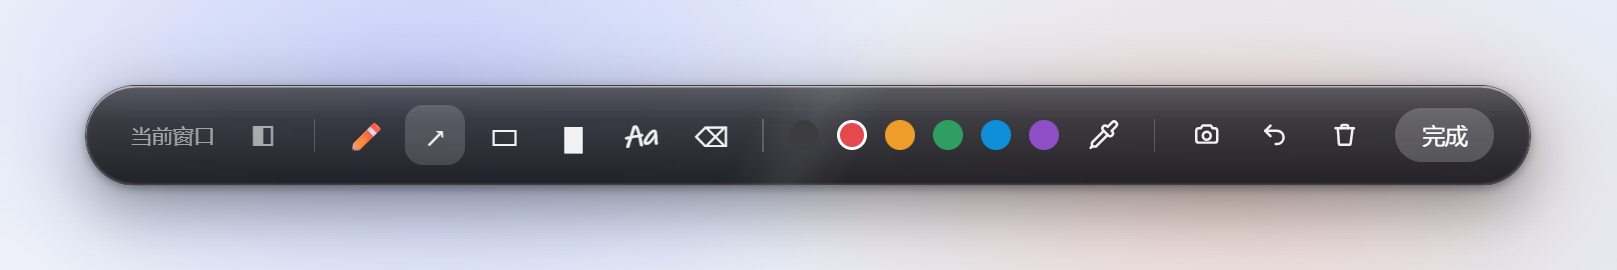
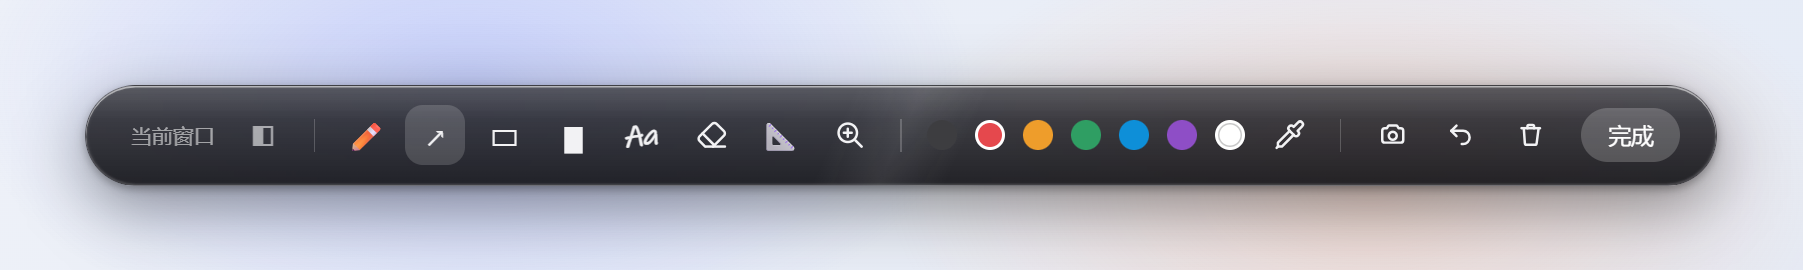
docs: README 补齐新功能 + 重生成配图
- README 中英同步:能做什么表加「测量标尺 / 放大镜」、截图行补「右键=框选区域截图」、
  手绘工具改「七色(含白色)」;上手表加「数字键切工具 / 量尺寸 / 放大局部 / 框选截图」;
  「会不会拖慢电脑」改成自适应节奏(60fps 跟手 / 静止回落 / UIA ~30fps)的准确描述
- gen-screenshots mock:工具条加标尺 📐 / 放大镜、橡皮换 SVG 造型、颜色加白点;
  重生成 docs/hero.png、docs/toolbar.png

Changed region(s): [[0.0309, 0.3259, 0.9586, 0.7111], [0.0618, 0.2963, 0.0928, 0.3556]]

diff --git a/docs/gen-screenshots.js b/docs/gen-screenshots.js
@@ -53,9 +53,9 @@ function heroHTML(withToolbar) {
   const toolbar = withToolbar ? `
   <div class="wa-toolbar">
     <span class="app">chrome</span><button style="opacity:.62">◧</button><span class="sep"></span>
-    <button>✏</button><button class="on">↗</button><button>▭</button><button>▆</button><button class="ink">Aa</button><button>⌫</button>
+    <button>✏</button><button class="on">↗</button><button>▭</button><button>▆</button><button class="ink">Aa</button><button><svg viewBox="0 0 24 24"><path d="m7 21-4.3-4.3a2.4 2.4 0 0 1 0-3.4l9.6-9.6a2.4 2.4 0 0 1 3.4 0l5.6 5.6a2.4 2.4 0 0 1 0 3.4L13 21"/><path d="M22 21H8"/><path d="m5 11 9 9"/></svg></button><button>📐</button><button><svg viewBox="0 0 24 24"><circle cx="10.5" cy="10.5" r="7"/><path d="m21 21-4.6-4.6"/><path d="M10.5 7.5v6M7.5 10.5h6"/></svg></button>
     <span class="sep"></span>
-    <i style="background:#3d3d40"></i><i style="background:#e5484d" class="c-on"></i><i style="background:#ee9d2b"></i><i style="background:#2f9e63"></i><i style="background:#0e8fd8"></i><i style="background:#8e4ec6"></i><button title="从屏幕取色"><svg viewBox="0 0 24 24"><path d="m2 22 1-1h3l9-9"/><path d="M3 21v-3l9-9"/><path d="m15 6 3.4-3.4a2.1 2.1 0 1 1 3 3L18 9l.4.4a1 1 0 1 1-3 3l-3.8-3.8a1 1 0 1 1 3-3l.4.4Z"/></svg></button>
+    <i style="background:#3d3d40"></i><i style="background:#e5484d" class="c-on"></i><i style="background:#ee9d2b"></i><i style="background:#2f9e63"></i><i style="background:#0e8fd8"></i><i style="background:#8e4ec6"></i><i style="background:#ffffff;box-shadow:inset 0 0 0 1px rgba(0,0,0,.22)"></i><button title="从屏幕取色"><svg viewBox="0 0 24 24"><path d="m2 22 1-1h3l9-9"/><path d="M3 21v-3l9-9"/><path d="m15 6 3.4-3.4a2.1 2.1 0 1 1 3 3L18 9l.4.4a1 1 0 1 1-3 3l-3.8-3.8a1 1 0 1 1 3-3l.4.4Z"/></svg></button>
     <span class="sep"></span><button><svg viewBox="0 0 24 24"><path d="M4 9a2 2 0 0 1 2-2h1.6l.9-1.5A1 1 0 0 1 9.4 5h5.2a1 1 0 0 1 .9.5L16.4 7H18a2 2 0 0 1 2 2v7a2 2 0 0 1-2 2H6a2 2 0 0 1-2-2z"/><circle cx="12" cy="12.8" r="3"/></svg></button><button><svg viewBox="0 0 24 24"><path d="M8 5 4 9l4 4"/><path d="M4 9h9a5 5 0 0 1 0 10h-1"/></svg></button><button><svg viewBox="0 0 24 24"><path d="M5 7h14"/><path d="M9.5 7V5.5a1 1 0 0 1 1-1h3a1 1 0 0 1 1 1V7"/><path d="M6.7 7l.8 11.4a1.4 1.4 0 0 0 1.4 1.3h6.2a1.4 1.4 0 0 0 1.4-1.3L18 7"/></svg></button><b>完成</b>
   </div>` : '';
   return `<!DOCTYPE html><html><head><meta charset="utf-8"><style>
@@ -147,9 +147,11 @@ function toolbarHTML() {
       <button title="方框">▭</button>
       <button title="荧光笔">▆</button>
       <button class="ink" title="手写便签">Aa</button>
-      <button title="橡皮">⌫</button>
+      <button title="橡皮"><svg viewBox="0 0 24 24"><path d="m7 21-4.3-4.3a2.4 2.4 0 0 1 0-3.4l9.6-9.6a2.4 2.4 0 0 1 3.4 0l5.6 5.6a2.4 2.4 0 0 1 0 3.4L13 21"/><path d="M22 21H8"/><path d="m5 11 9 9"/></svg></button>
+      <button title="测量标尺">📐</button>
+      <button title="放大镜"><svg viewBox="0 0 24 24"><circle cx="10.5" cy="10.5" r="7"/><path d="m21 21-4.6-4.6"/><path d="M10.5 7.5v6M7.5 10.5h6"/></svg></button>
       <span class="sep"></span>
-      <i style="background:#3d3d40"></i><i style="background:#e5484d" class="on"></i><i style="background:#ee9d2b"></i><i style="background:#2f9e63"></i><i style="background:#0e8fd8"></i><i style="background:#8e4ec6"></i>
+      <i style="background:#3d3d40"></i><i style="background:#e5484d" class="on"></i><i style="background:#ee9d2b"></i><i style="background:#2f9e63"></i><i style="background:#0e8fd8"></i><i style="background:#8e4ec6"></i><i style="background:#ffffff;box-shadow:inset 0 0 0 1px rgba(0,0,0,.22)"></i>
       <button title="从屏幕取色(吸管)"><svg viewBox="0 0 24 24"><path d="m2 22 1-1h3l9-9"/><path d="M3 21v-3l9-9"/><path d="m15 6 3.4-3.4a2.1 2.1 0 1 1 3 3L18 9l.4.4a1 1 0 1 1-3 3l-3.8-3.8a1 1 0 1 1 3-3l.4.4Z"/></svg></button>
       <span class="sep"></span>
       <button title="截图"><svg viewBox="0 0 24 24"><path d="M4 9a2 2 0 0 1 2-2h1.6l.9-1.5A1 1 0 0 1 9.4 5h5.2a1 1 0 0 1 .9.5L16.4 7H18a2 2 0 0 1 2 2v7a2 2 0 0 1-2 2H6a2 2 0 0 1-2-2z"/><circle cx="12" cy="12.8" r="3"/></svg></button><button title="撤销"><svg viewBox="0 0 24 24"><path d="M8 5 4 9l4 4"/><path d="M4 9h9a5 5 0 0 1 0 10h-1"/></svg></button><button title="清空"><svg viewBox="0 0 24 24"><path d="M5 7h14"/><path d="M9.5 7V5.5a1 1 0 0 1 1-1h3a1 1 0 0 1 1 1V7"/><path d="M6.7 7l.8 11.4a1.4 1.4 0 0 0 1.4 1.3h6.2a1.4 1.4 0 0 0 1.4-1.3L18 7"/></svg></button><b>完成</b>

diff --git a/README.en.md b/README.en.md
@@ -41,17 +41,19 @@ draw on it. All code is an independent implementation.
 | 🪟 **On any window** | Browser, PDF, chat, editor… if it's a window, you can mark it up |
 | 🎯 **Marks follow the window** | Move or resize the window and annotations track it in real time — not a frozen screenshot |
 | 📜 **Follows page scrolling** | Scroll and marks track the real scroll position — main content and sidebar each followed on their own; apps that don't expose scrolling fall back to pinning (see [FAQ](#-faq)) |
-| ✏ **Six drawing tools** | Pen, hand-drawn arrow, box, highlighter, handwritten note, eraser — six colors |
+| ✏ **Drawing tools** | Pen, hand-drawn arrow, box, highlighter, handwritten note, eraser — **seven colors** (incl. white) |
+| 📐 **Measure ruler** | Drag a box, see its size in physical pixels live (element size, spacing); follows the window |
+| 🔍 **Loupe / magnifier** | Drag a region → freeze & magnify it into a glass lens; circle / square shape, 2× / 3× / 4×; follows the window |
 | 🎨 **Pick a color off the screen** | An eyedropper in the palette samples a color from **anywhere on screen** as your pen color (the OS-native color picker, full-screen) |
 | 💾 **Remembers automatically** | Saved per "app + window title"; close and reopen the window, the marks come back |
 | 🫥 **Stays out of your way** | One tap and the overlay becomes click-through — keep using the window underneath |
-| 📷 **One-tap screenshot** | Capture the window *with* your annotations — copied to the clipboard and saved to `Pictures\Window Annotator` |
+| 📷 **Screenshot** | Click = whole window with annotations; **right-click = box-select and capture just that region**; both copy to clipboard + save to `Pictures\Window Annotator` |
 | 🔔 **Lives in the tray** | A red ✎ icon; auto-start and the follow toggle are in the right-click menu |
 | 🀄 **No licensing baggage** | Handwriting uses fonts built into Windows; no third-party assets bundled |
 
 ## Screenshots
 
-**The toolbar in annotate mode** (pen / arrow / box / highlighter / note / eraser + six colors + screen color picker):
+**The toolbar in annotate mode** (pen / arrow / box / highlighter / note / eraser / ruler / loupe + seven colors + screen color picker):
 
 <div align="center">
 <img src="docs/toolbar.png" alt="Floating toolbar" width="680">
@@ -89,10 +91,14 @@ system tray, plus a notification telling you which hotkey is active. To launch i
 | Write a handwritten note | Click `Aa` → cursor becomes a text caret → **click** on the window → a dashed box appears in place → type → click away or `Ctrl+Enter` to finish |
 | Move / edit an existing note | In annotate mode, **drag** to move, **double-click** to edit |
 | Erase a stroke | Pick the eraser, click or swipe over it |
+| Switch tools fast | Number keys `1`–`8`; or set the wheel to "switch tool" mode (◧ icon at the toolbar's left — click / middle-click / right-click cycles opacity / zoom / switch-tool) |
+| Measure an element / spacing | Pick the **ruler** (📐) → drag a box → live physical-pixel `W × H px` (label sits outside the box); follows the window |
+| Magnify a detail | Pick the **loupe** (🔍) → drag a region → a draggable glass lens (a frozen snapshot). Middle-click cycles zoom 2× / 3× / 4×, right-click the loupe button toggles circle / square |
 | Draw with a color from the screen | In annotate mode, click the **eyedropper** (right of the color dots) → the cursor becomes a magnifier → click **anywhere on screen** to sample → that color becomes your pen color and appears at the end of the dots (click it anytime to reselect) |
-| Screenshot the window + marks | In annotate mode, click the screenshot button (camera icon) on the toolbar — captures this window (with your annotations), copies it to the clipboard, and saves a PNG to `Pictures\Window Annotator`; the tray menu also has "Open screenshots folder" |
+| Screenshot the window + marks | Click the screenshot button (camera icon) to capture the **whole window** (with annotations) → clipboard + PNG in `Pictures\Window Annotator`; the tray menu also has "Open screenshots folder" |
+| Capture just a region | **Right-click** the screenshot button → cursor becomes a crosshair → box-select → captures only that region (with annotations) |
 | Change where screenshots are saved | Tray right-click → "截图保存位置…" (Screenshot save location) → pick a folder (the menu also shows the current folder name) |
-| Fade marks (or zoom them) | In annotate mode, scroll the wheel over empty canvas — up fades, down restores; click the ◧ / 🔍 icon at the toolbar's left to switch the wheel to zoom |
+| Fade marks / zoom / switch tool with the wheel | Scroll over empty canvas; the ◧ icon at the toolbar's left cycles what the wheel does — opacity / zoom annotations / switch tool (click / middle-click / right-click to cycle) |
 | Make marks follow scrolling | Nothing to do — just scroll the page in view mode |
 | Toggle scroll-follow on/off | Tray right-click → "跟随页面滚动" (Follow page scrolling) checkbox |
 | Start on boot | Tray right-click → "开机自动启动" (Start on login) |
@@ -120,8 +126,9 @@ followed yet — the marks fall back to being pinned to the window (move / resiz
 > This is an area of **ongoing compatibility work**: every app whose scrolling we learn to read is one more that follows precisely. Unreadable ones degrade gracefully to window-pinning — no jumping around.
 
 **Does it slow down my PC?**
-In the background it does one very cheap thing: realign the overlay every 16 ms — and it only reads scroll
-position when a window that actually has annotations is in the foreground. When you're not annotating, it costs almost nothing.
+In the background it does one very cheap thing: adaptively realign the overlay — 60fps while things move,
+backing off when still, near-idle with nothing annotated; scroll position is read only ~30fps, and only when a
+window that actually has annotations is in the foreground. When you're not annotating, it costs almost nothing.
 
 ## 🔧 How it works
 

diff --git a/README.md b/README.md
@@ -38,17 +38,19 @@
 | 🪟 **贴在任意窗口** | 浏览器、PDF、聊天窗、编辑器……只要是个窗口就能标 |
 | 🎯 **标注跟着窗口走** | 窗口移动、缩放，标注实时跟随；不是死在屏幕上的截图 |
 | 📜 **跟着页面滚动** | 滚页面时标注按真实位置跟随，正文 / 侧栏还能各跟各的；读不到滚动的软件则钉在窗口上（见[常见问题](#-常见问题)）|
-| ✏ **六件手绘工具** | 画笔、手绘箭头、方框、荧光笔、手写便签、橡皮，六种颜色 |
+| ✏ **手绘工具** | 画笔、手绘箭头、方框、荧光笔、手写便签、橡皮，**七种颜色**（含白色）|
+| 📐 **测量标尺** | 拖一个框，实时显示物理像素尺寸（量按钮大小、量间距），跟着窗口走 |
+| 🔍 **放大镜** | 框一块 → 抓那一刻放大成一枚玻璃镜片看细节；圆 / 方两种形状、2× / 3× / 4× 倍率；跟着窗口走 |
 | 🎨 **屏幕取色** | 调色板里一支吸管，从屏幕**任意位置**吸一个颜色当画笔色（系统原生取色器，全屏可取）|
 | 💾 **自动记住** | 按"程序 + 窗口标题"存档，窗口关了再开，标注自动回来 |
 | 🫥 **不挡你干活** | 画完按一下，鼠标穿透浮层，照常点击操作下面的窗口 |
-| 📷 **一键截图** | 连窗口带标注一起截成图，自动复制到剪贴板，并存一份到 `图片\Window Annotator` |
+| 📷 **截图** | 点截图键=连窗口带标注截**整窗**；**右键截图键=框选只截选中那块**；都复制到剪贴板 + 存到 `图片\Window Annotator` |
 | 🔔 **托盘常驻** | 右下角一个红色 ✎ 图标，开机自启、跟随开关都在右键菜单里 |
 | 🀄 **零版权负担** | 手写体用 Windows 自带字体，不打包任何第三方素材 |
 
 ## 效果
 
-**标注模式的工具条**（画笔 / 箭头 / 方框 / 荧光笔 / 手写便签 / 橡皮 + 六色 + 屏幕取色）：
+**标注模式的工具条**（画笔 / 箭头 / 方框 / 荧光笔 / 手写便签 / 橡皮 / 测量标尺 / 放大镜 + 七色 + 屏幕取色）：
 
 <div align="center">
 <img src="docs/toolbar.png" alt="浮动工具条" width="680">
@@ -86,8 +88,12 @@ npm start
 | 写一句手写便签 | 点工具条 `Aa` → 光标变成文字光标 → 在窗口上**点一下**，原地出现虚线输入框 → 打字 → 点别处或 `Ctrl+Enter` 收起 |
 | 移动 / 修改已有便签 | 标注模式下**拖动**移位、**双击**改字 |
 | 擦掉某一笔 | 选橡皮，点它 / 从上面划过 |
+| 快速切工具 | 数字键 `1`–`8` 直接切；或把滚轮切成「切工具」模式（工具条左端 ◧ 图标点 / 中键 / 右键循环:透明度 / 缩放 / 切工具）|
+| 量一个元素多大 / 量间距 | 选**测量标尺**（📐）→ 拖一个框 → 实时显示物理像素 `宽 × 高 px`（标签在框外不挡内容），跟着窗口走 |
+| 放大看局部细节 | 选**放大镜**（🔍）→ 框一块 → 放大成一枚可拖的玻璃镜片（那一刻的快照）。中键切倍率 2× / 3× / 4×，右键放大镜按钮切圆 / 方 |
 | 用屏幕上的某个颜色来画 | 画笔模式点色点右边的**吸管** → 光标变放大镜 → 在屏幕**任意位置**点一下取色 → 该色成为画笔色，并出现在色点末尾（随时点它切回）|
-| 把窗口和标注截成图 | 画笔模式点工具条右侧的截图键（相机图标）—— 截当前这个窗口（含你画的标注），自动复制到剪贴板，并存一份 PNG 到 `图片\Window Annotator`；托盘右键也有「打开截图文件夹」 |
+| 把窗口和标注截成图 | 点工具条右侧的截图键（相机图标）截**整个窗口**（含标注），复制到剪贴板 + 存 PNG 到 `图片\Window Annotator`；托盘右键也有「打开截图文件夹」 |
+| 只截选中的一块 | **右键**那个截图键 → 光标变十字 → 框一块 → 只截那块（含标注），一样复制 + 存盘 |
 | 改截图保存到哪 | 托盘右键 →「截图保存位置…」选个文件夹（菜单里还会顺带显示当前存在哪个文件夹）|
 | 淡化标注看清底下 / 缩放标注 | 画笔模式空白处滚鼠标滚轮:上滚变淡、下滚变实;想改成"滚轮缩放标注",点工具条左端的 ◧ / 🔍 小图标切换 |
 | 让页面滚动时标注跟着滚 | 什么都不用做，查看模式下滚页面即可 |
@@ -114,7 +120,7 @@ npm start
 > 这块**正在做适配**：每多认出一种软件的滚动，就多一种能精确跟随；读不到的会稳妥退回钉在窗口上，不会乱跳。
 
 **它会拖慢电脑吗？**
-后台只做一件很轻的事：每 16 毫秒对齐一次浮层位置；只有真有标注的窗口在前台时，才会去读一次滚动。不标注时几乎不占资源。
+后台只做一件很轻的事：自适应对齐浮层位置——有动静时按 60fps 跟手、静止后回落省电、完全没标注时几乎休眠；滚动位置也只在真有标注的窗口在前台时才按 ~30fps 读一次。不标注时几乎不占资源。
 
 ## 🔧 它是怎么做到的
 
